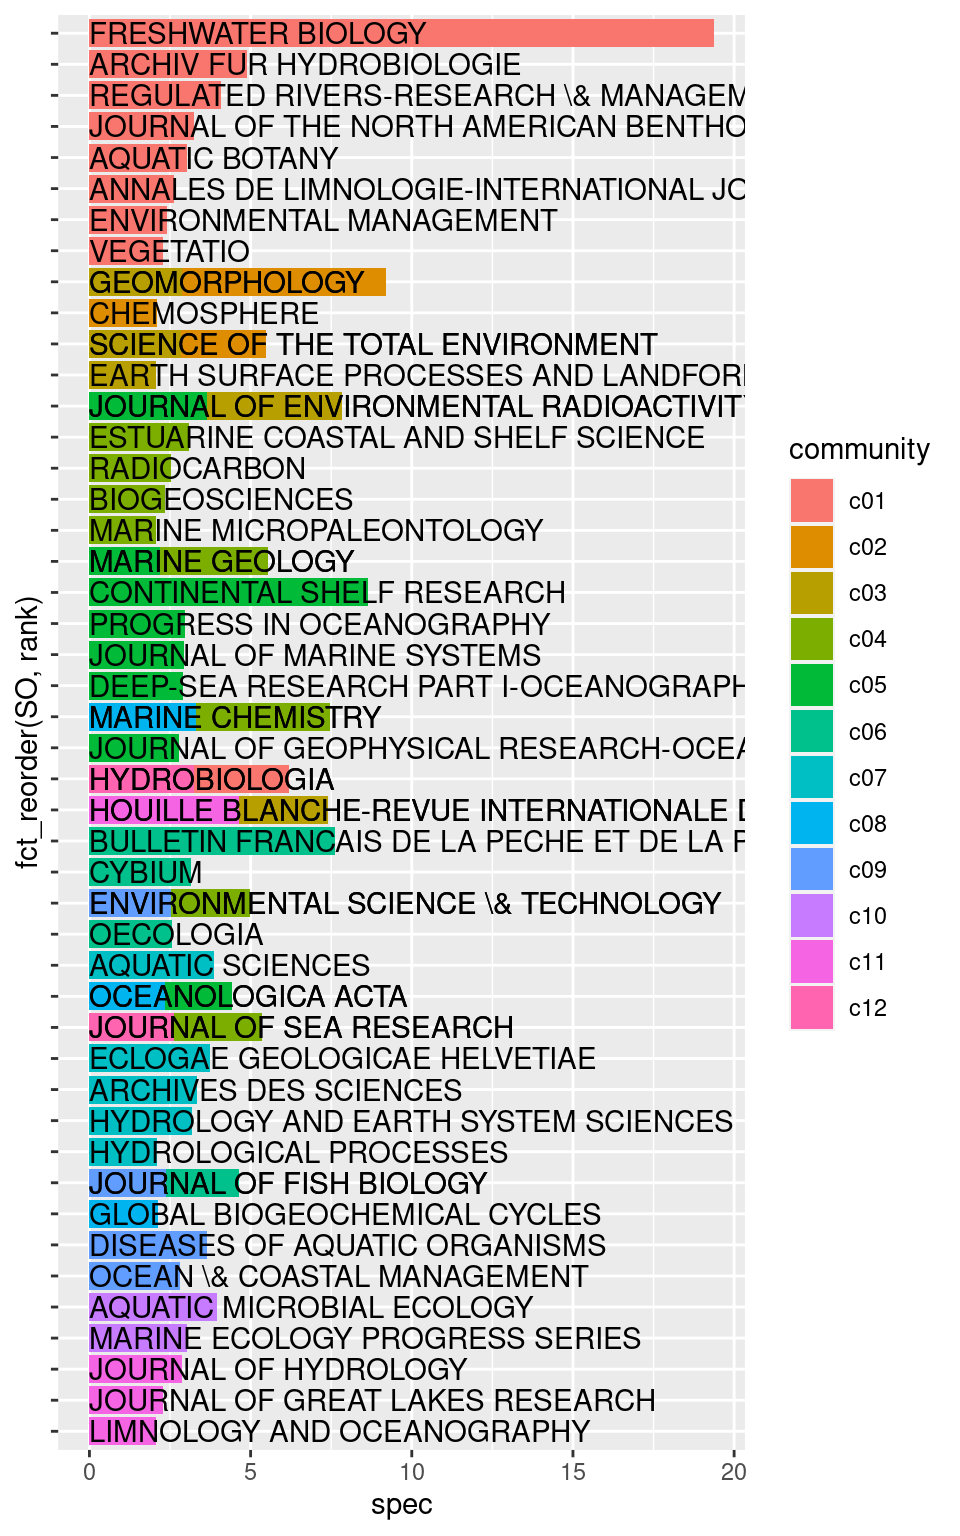
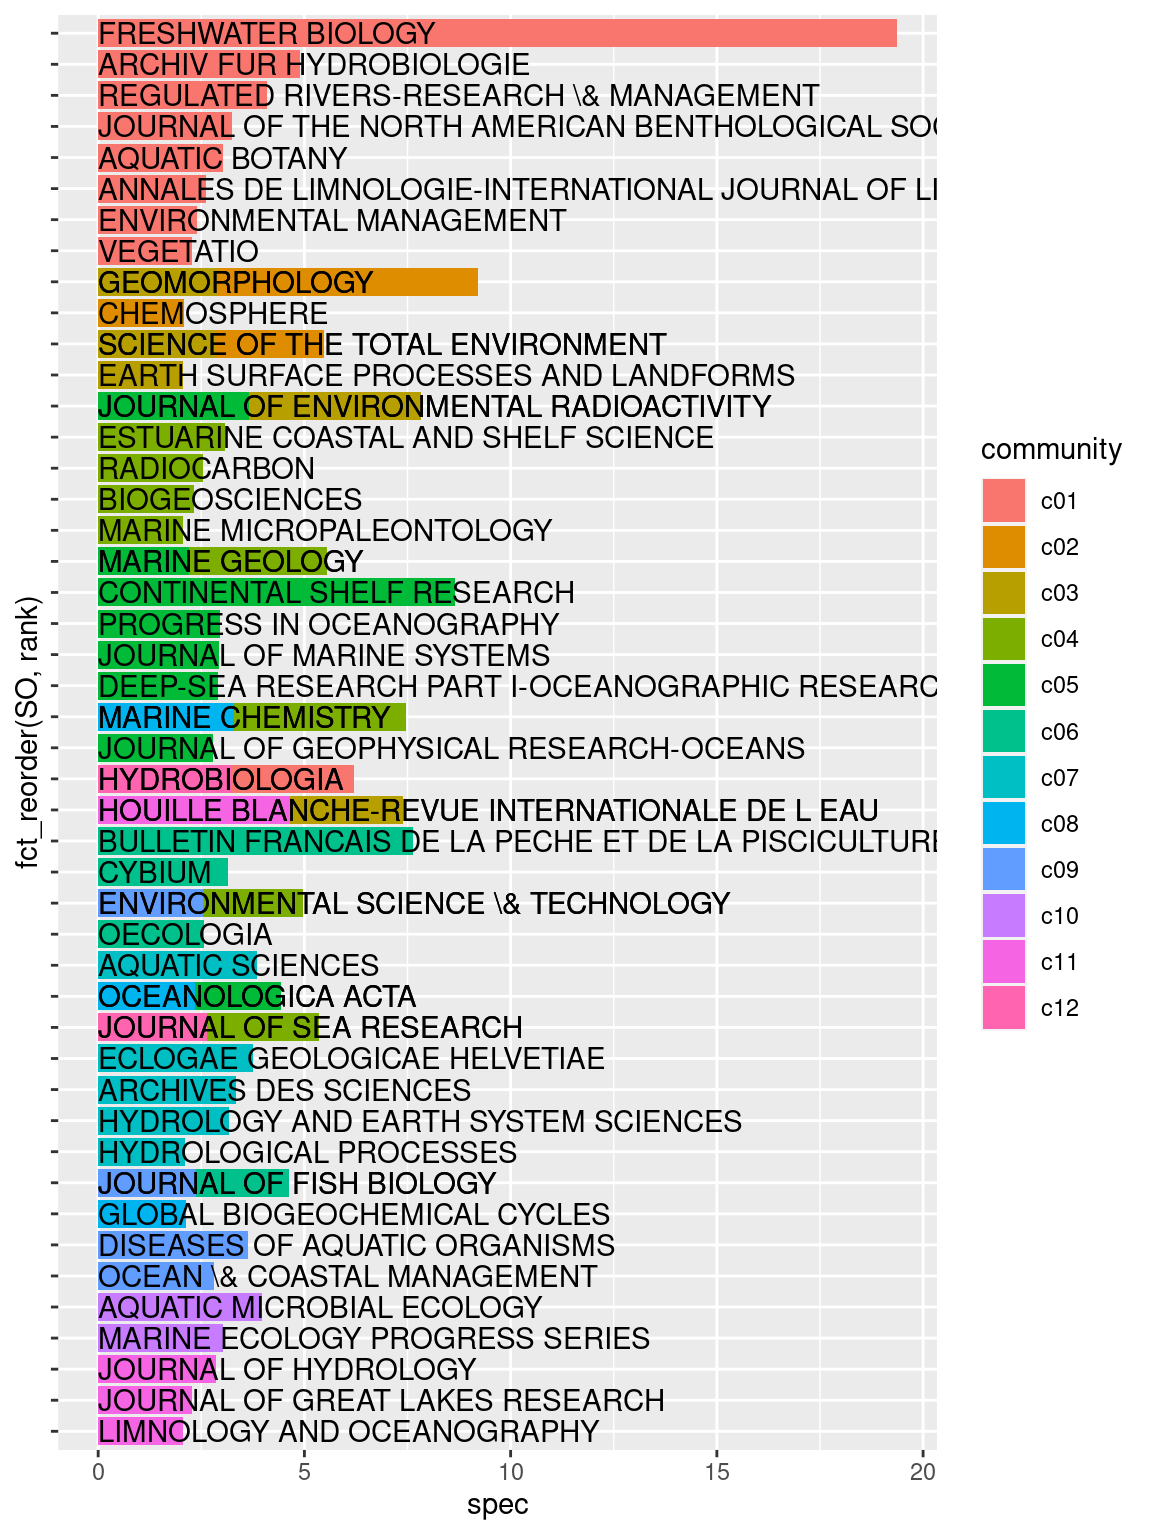
update doc

Changed region(s): [[0.0, 0.0, 0.9688, 1.0], [0.75, 0.9375, 0.8125, 0.9688]]

diff --git a/docs/report.html b/docs/report.html
@@ -548,7 +548,7 @@ pre > code.sourceCode > span > a:first-child::before { text-decoration: underlin
 </section>
 <section id="productivité-des-communautés-dauteurs-au-cours-du-temps" class="level2">
 <h2 class="anchored" data-anchor-id="productivité-des-communautés-dauteurs-au-cours-du-temps">Productivité des communautés d’auteurs au cours du temps</h2>
-<div class="cell" data-hash="report_cache/html/tib_doc_PY_5fbb42d2fce2d7de54dc0b6a991c8efd">
+<div class="cell" data-hash="report_cache/html/tib_doc_PY_df67214dabd105408dfa54f2c19ed7e3">
 <details>
 <summary>Code</summary>
 <div class="sourceCode cell-code" id="cb20"><pre class="sourceCode r code-with-copy"><code class="sourceCode r"><span id="cb20-1"><a href="#cb20-1" aria-hidden="true" tabindex="-1"></a>tib_community_PY<span class="ot">=</span>tib_doc_commus<span class="sc">%&gt;%</span> </span>
@@ -563,7 +563,7 @@ pre > code.sourceCode > span > a:first-child::before { text-decoration: underlin
 <span id="cb20-10"><a href="#cb20-10" aria-hidden="true" tabindex="-1"></a>  <span class="fu">theme</span>(<span class="at">legend.position=</span><span class="st">"none"</span>)</span></code><button title="Copy to Clipboard" class="code-copy-button"><i class="bi"></i></button></pre></div>
 </details>
 <div class="cell-output-display">
-<p><img src="report_files/figure-html/tib_doc_PY-1.png" class="img-fluid" width="576"></p>
+<p><img src="report_files/figure-html/tib_doc_PY-1.png" class="img-fluid" width="768"></p>
 </div>
 </div>
 </section>
@@ -584,7 +584,7 @@ pre > code.sourceCode > span > a:first-child::before { text-decoration: underlin
 </div>
 <p>Le graphe ci-après représente les collaborations des 2060 auteurs qui ont été rattachés à une communauté que l’on a conservé pour la suite des analyses.</p>
 <p>Ces 2060 auteurs représentent 50.91% des auteurs du corpus, mais 60% des documents du corpus ont au moins un de ces auteurs comme n-ième auteur.</p>
-<div class="cell" data-hash="report_cache/html/graph_auteurs_show_f0abb057a7b8e2b4b5cdb94a351d80ac">
+<div class="cell" data-hash="report_cache/html/graph_auteurs_show_93e0c2edab44145e2ed1bf066b431562">
 <details>
 <summary>Code</summary>
 <div class="sourceCode cell-code" id="cb22"><pre class="sourceCode r code-with-copy"><code class="sourceCode r"><span id="cb22-1"><a href="#cb22-1" aria-hidden="true" tabindex="-1"></a>auteurs_keep<span class="ot">=</span>auteurs <span class="sc">%&gt;%</span></span>
@@ -596,16 +596,17 @@ pre > code.sourceCode > span > a:first-child::before { text-decoration: underlin
 <span id="cb22-7"><a href="#cb22-7" aria-hidden="true" tabindex="-1"></a>  <span class="fu">mutate</span>(<span class="at">keep=</span>rank<span class="sc">&lt;=</span><span class="dv">3</span>) <span class="sc">%&gt;%</span> </span>
 <span id="cb22-8"><a href="#cb22-8" aria-hidden="true" tabindex="-1"></a>  <span class="fu">mutate</span>(<span class="at">showname=</span><span class="fu">case_when</span>(keep<span class="sc">~</span>au,</span>
 <span id="cb22-9"><a href="#cb22-9" aria-hidden="true" tabindex="-1"></a>                            <span class="sc">!</span>keep<span class="sc">~</span><span class="cn">NA_character_</span>))</span>
-<span id="cb22-10"><a href="#cb22-10" aria-hidden="true" tabindex="-1"></a><span class="fu">set.seed</span>(<span class="dv">123</span>)</span>
+<span id="cb22-10"><a href="#cb22-10" aria-hidden="true" tabindex="-1"></a><span class="fu">set.seed</span>(<span class="dv">1234</span>)</span>
 <span id="cb22-11"><a href="#cb22-11" aria-hidden="true" tabindex="-1"></a>tidyg<span class="ot">=</span>tidygraph<span class="sc">::</span><span class="fu">as_tbl_graph</span>(p<span class="sc">$</span>graph) <span class="sc">%&gt;%</span> </span>
 <span id="cb22-12"><a href="#cb22-12" aria-hidden="true" tabindex="-1"></a>  tidygraph<span class="sc">::</span><span class="fu">activate</span>(nodes) <span class="sc">%&gt;%</span></span>
 <span id="cb22-13"><a href="#cb22-13" aria-hidden="true" tabindex="-1"></a>  <span class="fu">select</span>(<span class="sc">-</span>community) <span class="sc">%&gt;%</span> </span>
-<span id="cb22-14"><a href="#cb22-14" aria-hidden="true" tabindex="-1"></a>  <span class="fu">filter</span>(name <span class="sc">%in%</span> <span class="fu">tolower</span>(liste_auteurs_graph)) <span class="sc">%&gt;%</span> </span>
-<span id="cb22-15"><a href="#cb22-15" aria-hidden="true" tabindex="-1"></a>  <span class="fu">left_join</span>(auteurs_keep,<span class="at">by=</span><span class="fu">c</span>(<span class="st">"name"</span><span class="ot">=</span><span class="st">"au"</span>))</span>
-<span id="cb22-16"><a href="#cb22-16" aria-hidden="true" tabindex="-1"></a><span class="fu">ggraph</span>(tidyg,<span class="at">layout=</span><span class="st">"fr"</span>)<span class="sc">+</span></span>
-<span id="cb22-17"><a href="#cb22-17" aria-hidden="true" tabindex="-1"></a>  <span class="fu">geom_edge_link</span>(<span class="at">color=</span><span class="st">"light grey"</span>)<span class="sc">+</span></span>
-<span id="cb22-18"><a href="#cb22-18" aria-hidden="true" tabindex="-1"></a>  <span class="fu">geom_node_point</span>(<span class="fu">aes</span>(<span class="at">color=</span>community,<span class="at">size=</span>ndoc))<span class="sc">+</span></span>
-<span id="cb22-19"><a href="#cb22-19" aria-hidden="true" tabindex="-1"></a>  <span class="fu">geom_node_text</span>(<span class="fu">aes</span>(<span class="at">label=</span>showname),<span class="at">size=</span><span class="dv">2</span>)</span></code><button title="Copy to Clipboard" class="code-copy-button"><i class="bi"></i></button></pre></div>
+<span id="cb22-14"><a href="#cb22-14" aria-hidden="true" tabindex="-1"></a>  <span class="fu">filter</span>(name <span class="sc">%in%</span> <span class="fu">tolower</span>(liste_auteurs_graph),</span>
+<span id="cb22-15"><a href="#cb22-15" aria-hidden="true" tabindex="-1"></a>         deg <span class="sc">&gt;</span><span class="dv">3</span>) <span class="sc">%&gt;%</span> </span>
+<span id="cb22-16"><a href="#cb22-16" aria-hidden="true" tabindex="-1"></a>  <span class="fu">left_join</span>(auteurs_keep,<span class="at">by=</span><span class="fu">c</span>(<span class="st">"name"</span><span class="ot">=</span><span class="st">"au"</span>))</span>
+<span id="cb22-17"><a href="#cb22-17" aria-hidden="true" tabindex="-1"></a><span class="fu">ggraph</span>(tidyg,<span class="at">layout=</span><span class="st">"fr"</span>)<span class="sc">+</span></span>
+<span id="cb22-18"><a href="#cb22-18" aria-hidden="true" tabindex="-1"></a>  <span class="fu">geom_edge_link</span>(<span class="at">color=</span><span class="st">"light grey"</span>)<span class="sc">+</span></span>
+<span id="cb22-19"><a href="#cb22-19" aria-hidden="true" tabindex="-1"></a>  <span class="fu">geom_node_point</span>(<span class="fu">aes</span>(<span class="at">color=</span>community,<span class="at">size=</span>ndoc))<span class="sc">+</span></span>
+<span id="cb22-20"><a href="#cb22-20" aria-hidden="true" tabindex="-1"></a>  <span class="fu">geom_node_text</span>(<span class="fu">aes</span>(<span class="at">label=</span>showname),<span class="at">size=</span><span class="dv">2</span>)</span></code><button title="Copy to Clipboard" class="code-copy-button"><i class="bi"></i></button></pre></div>
 </details>
 <div class="cell-output-display">
 <p><img src="report_files/figure-html/graph_auteurs_show-1.png" class="img-fluid" width="960"></p>
@@ -628,7 +629,7 @@ pre > code.sourceCode > span > a:first-child::before { text-decoration: underlin
 </div>
 </div>
 <p>Les journaux associés aux différentes communautés permettent également de les caractériser. Ci-dessous, les publications scientifiques spécifiques (significatif au seuil de 1% i.e.&nbsp;score de spécificité &gt;2).</p>
-<div class="cell" data-hash="report_cache/html/spec_SO_com_29409574c13658b690e88fe770fb736e">
+<div class="cell" data-hash="report_cache/html/spec_SO_com_7a72d53e638bd267245f97e610e1873c">
 <details>
 <summary>Code</summary>
 <div class="sourceCode cell-code" id="cb24"><pre class="sourceCode r code-with-copy"><code class="sourceCode r"><span id="cb24-1"><a href="#cb24-1" aria-hidden="true" tabindex="-1"></a>spec_SO<span class="ot">=</span><span class="fu">tidy_specificities</span>(tib_doc_commus,<span class="at">cat1=</span>SO,<span class="at">cat2=</span>community,<span class="at">min_spec=</span><span class="dv">2</span>) <span class="sc">%&gt;%</span> </span>
@@ -643,7 +644,7 @@ pre > code.sourceCode > span > a:first-child::before { text-decoration: underlin
 <span id="cb24-10"><a href="#cb24-10" aria-hidden="true" tabindex="-1"></a>  <span class="fu">theme</span>(<span class="at">axis.text.y=</span><span class="fu">element_blank</span>())</span></code><button title="Copy to Clipboard" class="code-copy-button"><i class="bi"></i></button></pre></div>
 </details>
 <div class="cell-output-display">
-<p><img src="report_files/figure-html/spec_SO_com-1.png" class="img-fluid" width="480"></p>
+<p><img src="report_files/figure-html/spec_SO_com-1.png" class="img-fluid" width="576"></p>
 </div>
 </div>
 </section>
